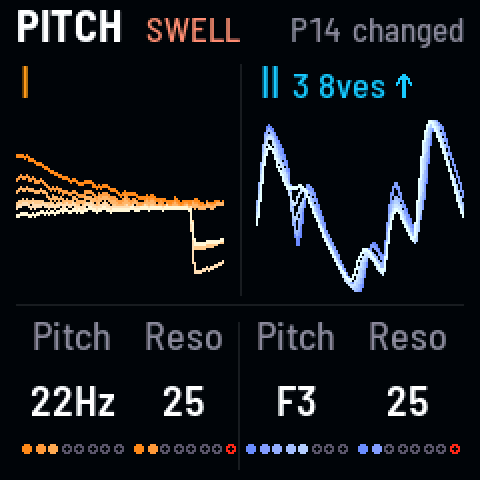
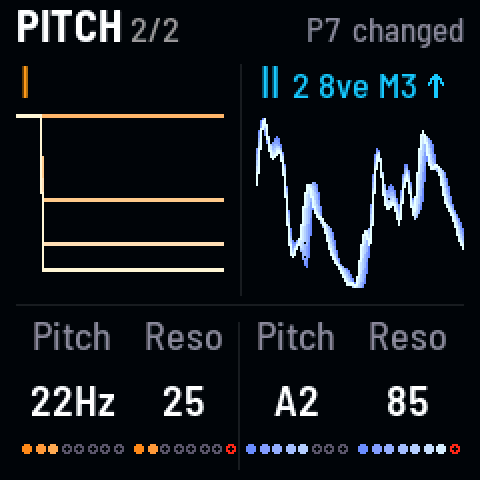
Recipes: Ticks and clicks from Sonar (P7), with Evan's moves; how to reach the presets bank

diff --git a/docs/manual/recipes/sounds.md b/docs/manual/recipes/sounds.md
@@ -13,13 +13,13 @@ image: ticks-1.png
 
 *A sub so low it breaks into clicks, a few a second*
 
-Put drone I's sub four octaves down, all the way in, and turn drone I down to about 22 Hz: the sub stops being a
-tone and becomes clicks, about 3 a second, a pulse to play against drone II.
+Put drone I's sub four octaves down, all the way in, and turn drone I to about 22 Hz: the sub stops being a tone and
+becomes clicks, about 3 a second. On **Sonar** (P7) they ring out through its delay and resonant filter.
 
-1. Press [[EDIT]] twice for **Sub · Drive**, and turn KNOB 1, Osc/Sb, all the way to the sub: **100**.
-2. Tap [[G#3]], drone I's sub, until the screen says **−4 oct**. It goes round −1, −2, ⅓, ⅕, −3, −4.
-3. Press [[HOME]] twice for **Pitch**, and turn KNOB 1, drone I's pitch, quickly down past **A0**, where the screen
-   turns to Hz, to about **22 Hz**: clicks.
+1. Hold [[SEL]] and tap [[F5]] for the presets, then tap white key 7: **Sonar** (P7).
+2. Press [[EDIT]] twice for **Sub · Drive**, and turn KNOB 1, Osc/Sb, all the way to the sub: **100**.
+3. Tap [[G#3]], drone I's sub, until the screen says **−4 oct**. It goes round −1, −2, ⅓, ⅕, −3, −4.
+4. Press [[HOME]] twice for **Pitch**, and turn KNOB 1, drone I's pitch, quickly up to about **22 Hz**: clicks.
 
 > **Good to know.** The clicks a second are drone I's pitch ÷ 8 (the sub is ÷ 16, two clicks to its cycle): at D3, 18
 > a second; at A0 (27.5 Hz), about 3; at 22 Hz, 2.7; at 5 Hz, one every 1.6 s. The clicks reach the speaker, though
@@ -31,7 +31,7 @@ tone and becomes clicks, about 3 a second, a pulse to play against drone II.
 
 **Listen** (`ticks`)
 
-- 0:00 Drone I at 22 Hz, its sub at −4 oct and all sub: clicks, about 3 a second, under drone II
+- 0:00 Sonar, drone I at 22 Hz, its sub at −4 oct and all sub: clicks, about 3 a second, ringing through the delay
 
 ### A singing filter {#sing}
 
